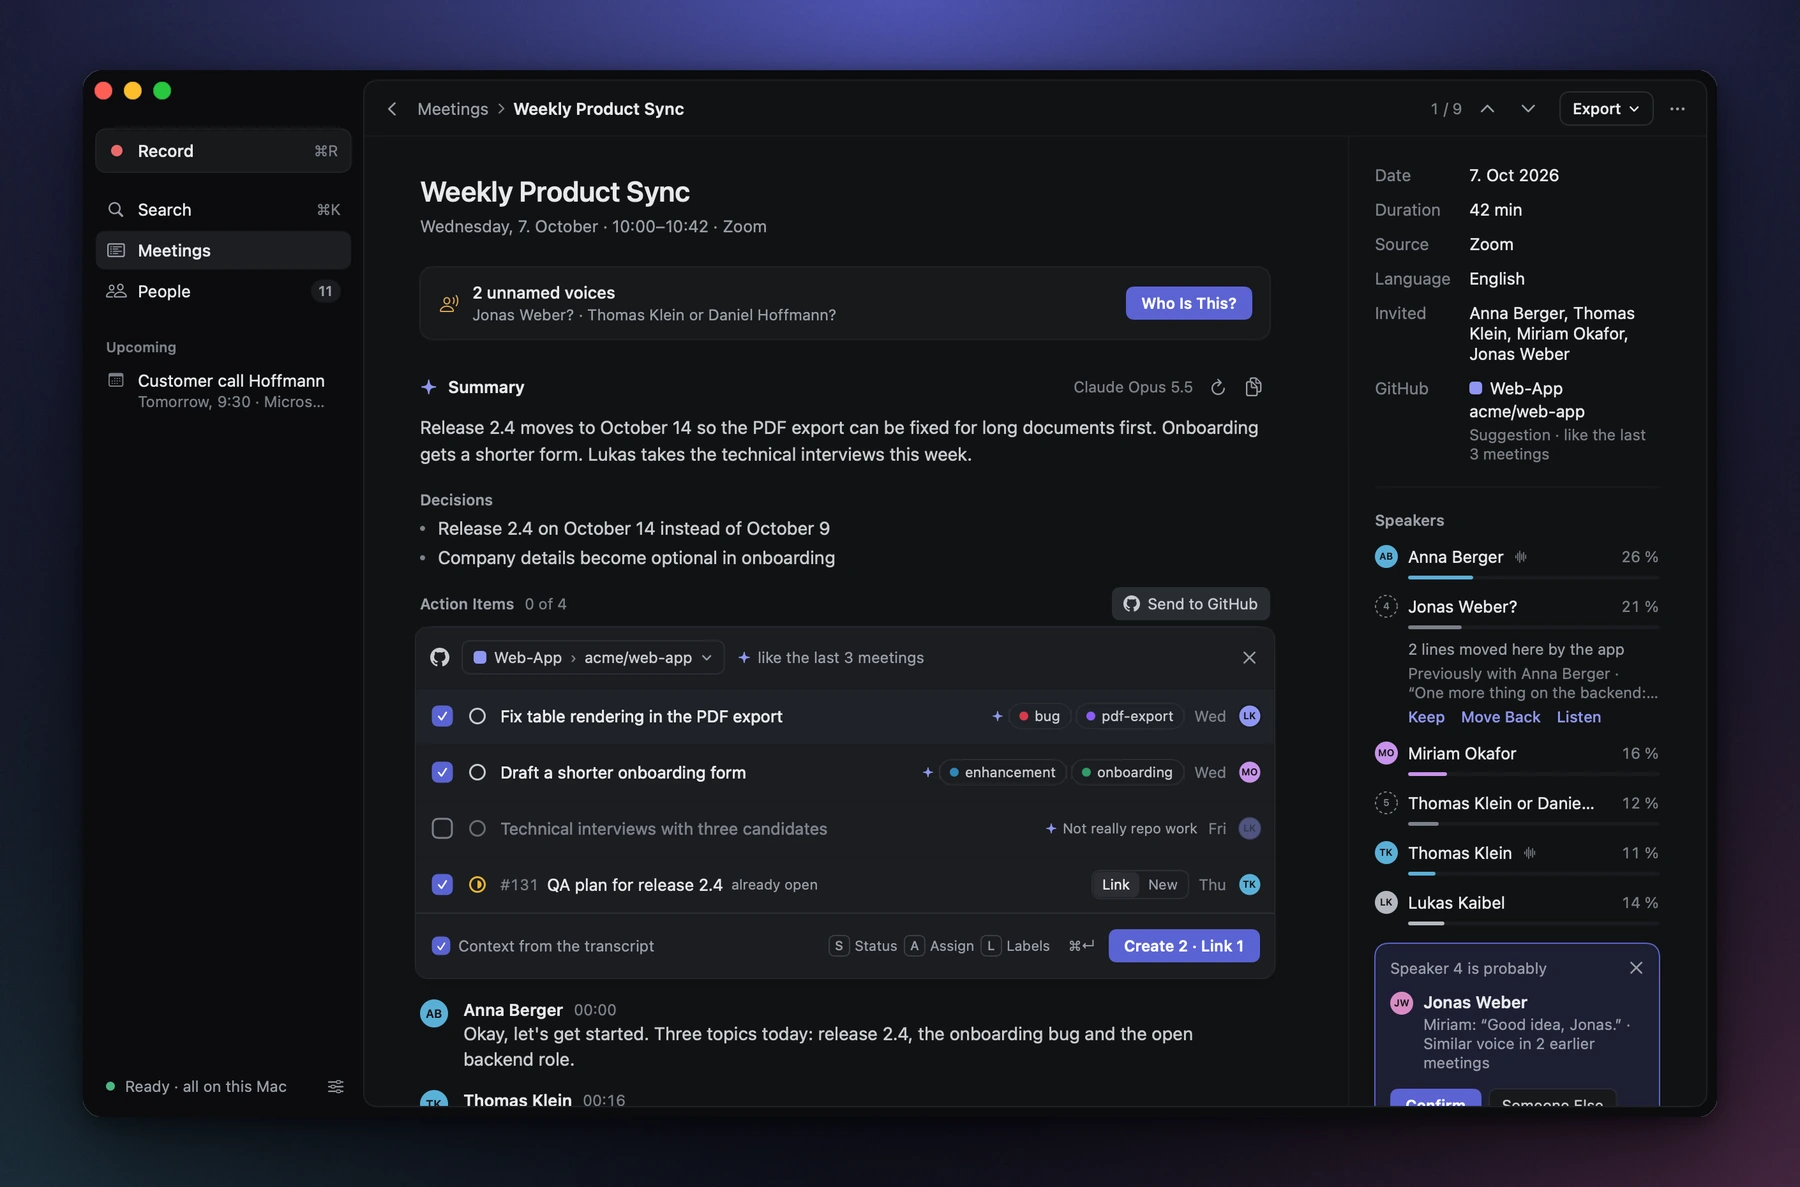
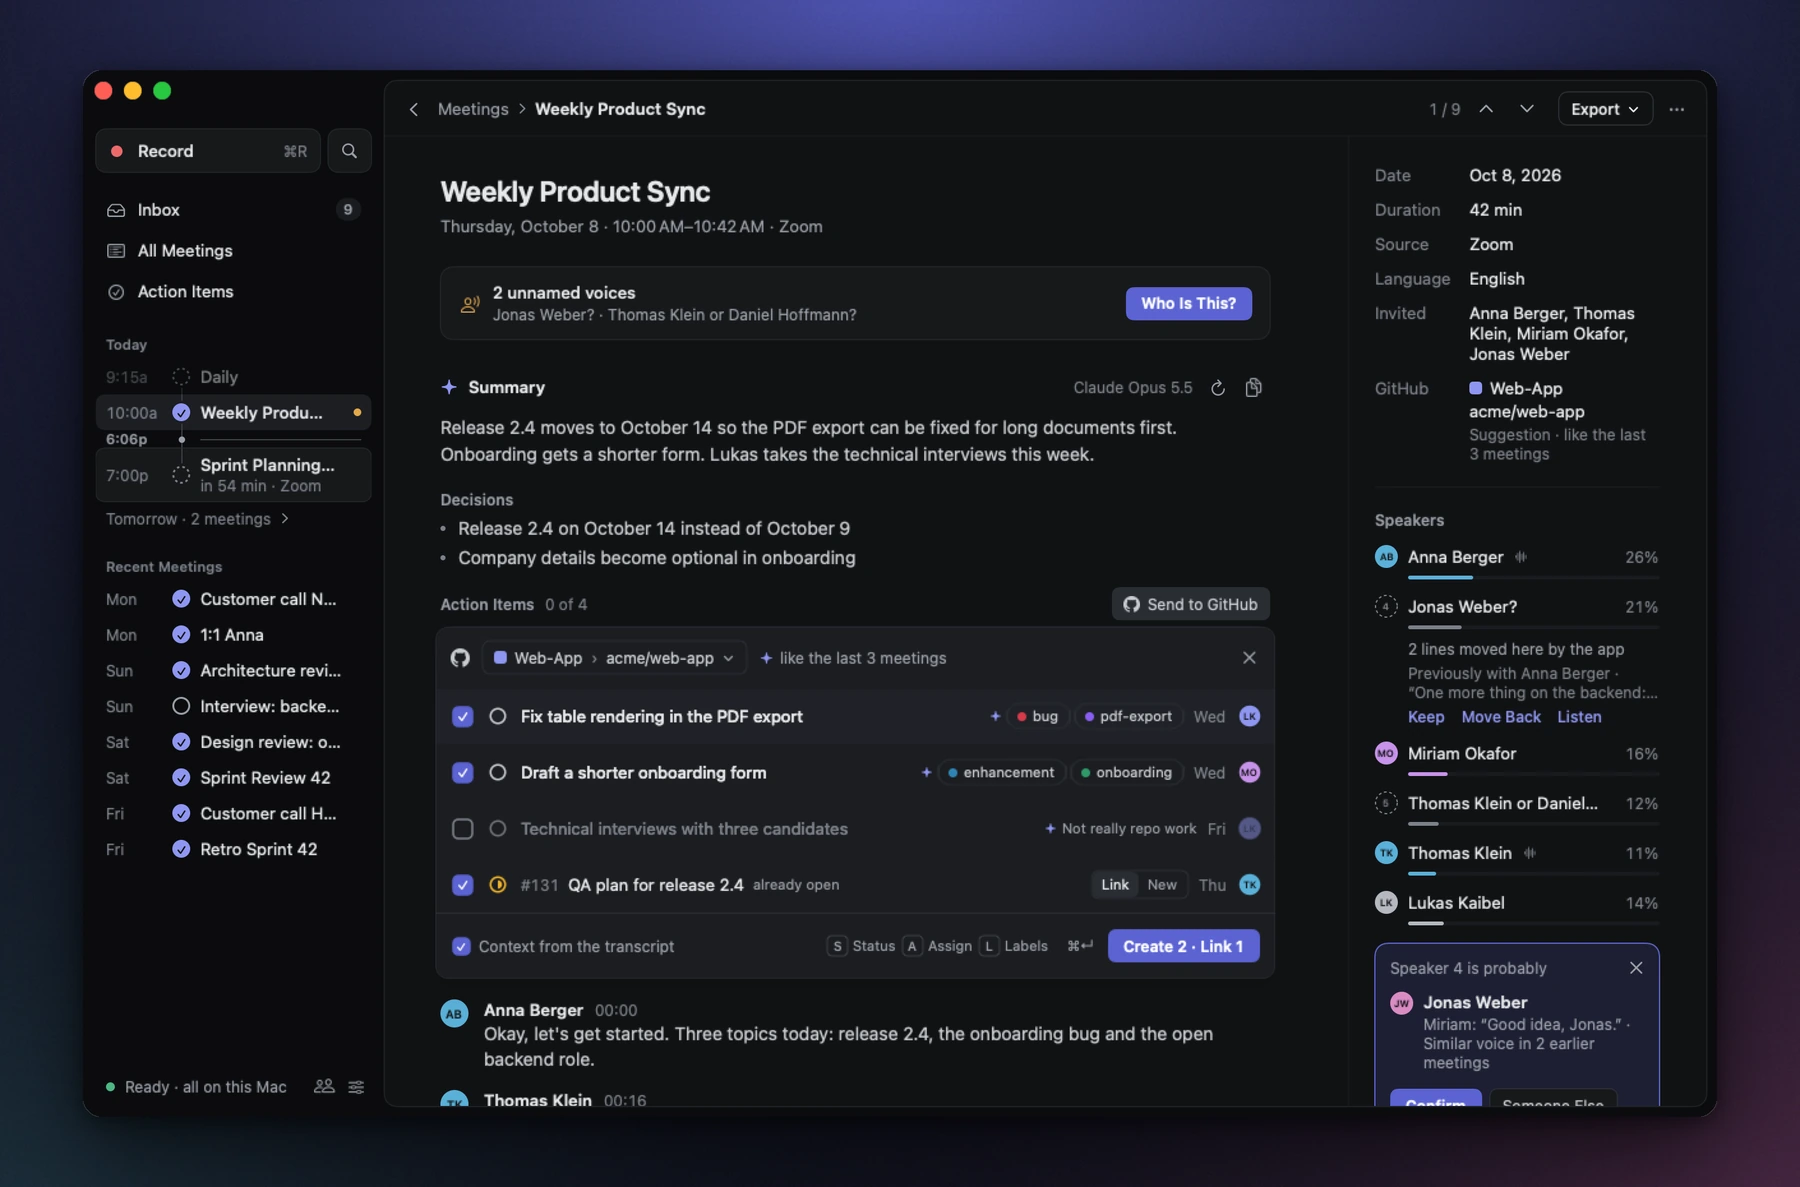
Pictures with the new sidebar; times like "9:15a" where the clock has twelve hours
README, social preview and website show the day plan, the inbox and the action items. The day plan's time column uses
the narrow AM/PM mark, so titles keep their room in English. Tools/screenshots/run.sh starts the demo without taking
the focus when BACKGROUND=1.

diff --git a/Packages/TranscriptsKit/Sources/TranscriptsKit/UI/Main/AgendaList.swift b/Packages/TranscriptsKit/Sources/TranscriptsKit/UI/Main/AgendaList.swift
@@ -57,7 +57,7 @@ struct AgendaList: View {
             let place = index < started ? index : index + 1
             switch item.kind {
             case .recorded(let row):
-                RecordedLine(row: row, time: TimeFormat.time(row.meeting.startedAt), timeWidth: timeWidth, axis: axis(place), onDelete: onDelete)
+                RecordedLine(row: row, time: TimeFormat.compactTime(row.meeting.startedAt), timeWidth: timeWidth, axis: axis(place), onDelete: onDelete)
             case .planned(let meeting):
                 PlannedLine(meeting: meeting, now: now, timeWidth: timeWidth, axis: axis(place), isNext: meeting.id == next?.id)
             }
@@ -101,7 +101,7 @@ struct AgendaList: View {
         let font = NSFont.monospacedDigitSystemFont(ofSize: 12, weight: .regular)
         let calendar = Calendar.current
         let day = calendar.startOfDay(for: Date())
-        let samples = [10, 12, 22, 23].compactMap { calendar.date(bySettingHour: $0, minute: 58, second: 0, of: day) }.map(TimeFormat.time)
+        let samples = [10, 12, 22, 23].compactMap { calendar.date(bySettingHour: $0, minute: 58, second: 0, of: day) }.map(TimeFormat.compactTime)
             + (1...6).compactMap { calendar.date(byAdding: .day, value: -$0, to: Date()) }.map { TimeFormat.shortDay($0) }
         let widest = samples.map { ($0 as NSString).size(withAttributes: [.font: font]).width }.max() ?? 34
         return ceil(widest) + 2
@@ -204,7 +204,7 @@ private struct NowLine: View {
 
     var body: some View {
         HStack(spacing: 8) {
-            Text(TimeFormat.time(now))
+            Text(TimeFormat.compactTime(now))
                 .font(.system(size: 11, weight: .semibold))
                 .monospacedDigit()
                 .foregroundStyle(Theme.textSecondary)
@@ -290,7 +290,7 @@ private struct PlannedLine: View {
         Button {
             showing = true
         } label: {
-            AgendaLine(time: TimeFormat.time(meeting.start), timeWidth: timeWidth, axis: axis, look: isNext ? .next : .plain, title: meeting.title,
+            AgendaLine(time: TimeFormat.compactTime(meeting.start), timeWidth: timeWidth, axis: axis, look: isNext ? .next : .plain, title: meeting.title,
                        subtitle: isNext ? ([TimeFormat.relative(to: meeting.start, now: now)] + [meeting.app].compactMap { $0 }).joined(separator: " · ") : nil) {
                 MeetingGlyph(state: .upcoming)
             } trailing: {

diff --git a/Packages/TranscriptsKit/Sources/TranscriptsKit/Support/Formatting.swift b/Packages/TranscriptsKit/Sources/TranscriptsKit/Support/Formatting.swift
@@ -53,6 +53,14 @@ public enum TimeFormat {
         date.formatted(Date.FormatStyle(date: .omitted, time: .shortened, locale: locale))
     }
 
+    /// "14:00", or "2:00p" where the clock has twelve hours: for a narrow column of times.
+    public static func compactTime(_ date: Date) -> String {
+        guard DateFormatter.dateFormat(fromTemplate: "j", options: 0, locale: locale)?.contains("a") == true else { return time(date) }
+        return date.formatted(Date.FormatStyle(locale: locale).hour(.defaultDigits(amPM: .narrow)).minute())
+            .replacingOccurrences(of: "\u{202F}", with: "")
+            .replacingOccurrences(of: " ", with: "")
+    }
+
     /// "Montag, 5. Oktober · 10:00–10:42".
     public static func meetingLine(start: Date, duration: Double) -> String {
         let day = start.formatted(Date.FormatStyle(locale: locale).weekday(.wide).day().month(.wide))

diff --git a/README.md b/README.md
@@ -57,6 +57,10 @@ About half a minute after a call, the meeting is transcribed again in a careful 
 and named, and the summary is written: an overview, decisions, action items with owner and due day, and open
 questions. Play any line, set markers while recording, export as Markdown, or search every transcript with ⌘K.
 
+The sidebar plans your day: today's calendar meetings and recordings in one list with a line for now, the next
+meeting set apart, and the latest meetings below. The inbox collects what a meeting leaves behind: a new summary,
+action items not on GitHub yet, voices without a name.
+
 ### It learns the voices
 
 Confirm a voice once and the app recognises that person in every later meeting. The People screen lists the voices
